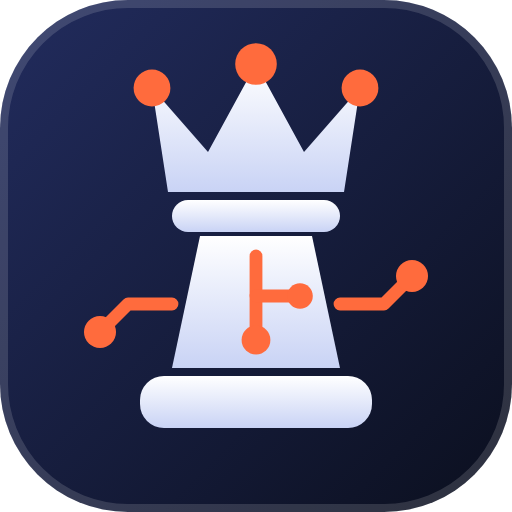
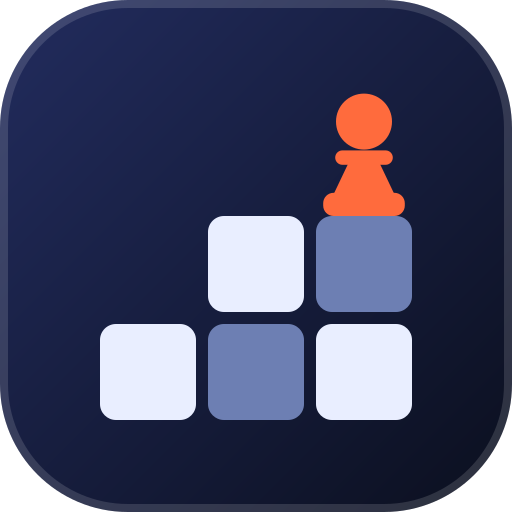
Add files via upload

Changed region(s): [[0.1562, 0.0625, 0.8438, 0.8438]]

diff --git a/backend/app/main.py b/backend/app/main.py
@@ -19,7 +19,7 @@ from .db import sb
 from .engine import analyze_game
 from . import cache, mailer
 from .auth import current_user, tier_from, tier_of
-from .sync import SECONDS_PER_GAME, analyze_initial, analyze_pending, failed_ids, import_history, initial_rows, is_running, job_status, last_error, onboard, run_cron, start_job, run_job, sync_user
+from .sync import _fetch_err, SECONDS_PER_GAME, analyze_initial, analyze_pending, failed_ids, import_history, initial_rows, is_running, job_status, last_error, onboard, run_cron, start_job, run_job, sync_user
 from .promo import attribute_checkout, attribute_renewal, checkout_discount, is_admin, promo_for, router as promo_router
 from .train import router as train_router
 
@@ -163,12 +163,30 @@ def list_games(u=Depends(current_user)):
     return out
 
 
+def _moves_from_pgn(g: dict) -> list:
+    """Mosse dal PGN (senza valutazioni): per le partite scaricate e non ancora analizzate."""
+    import chess, chess.pgn, io as _io
+    out = []
+    try:
+        pg = chess.pgn.read_game(_io.StringIO(g["pgn"]))
+        board, white = pg.board(), (g.get("user_color") == "white")
+        for i, mv in enumerate(pg.mainline_moves()):
+            san = board.san(mv); board.push(mv)
+            out.append({"game_id": g["id"], "ply": i + 1, "san": san, "uci": mv.uci(), "fen_after": board.fen(), "eval_cp": None,
+                        "best_move_san": None, "classification": None, "is_user_move": ((i % 2 == 0) == white) if g.get("user_color") else False})
+    except Exception:
+        return []
+    return out
+
+
 @app.get("/games/{game_id}")
 def get_game(game_id: str, u=Depends(current_user)):
     g = sb.table("games").select("*").eq("id", game_id).eq("user_email", u["email"]).limit(1).execute().data
     if not g:
         raise HTTPException(404, "not_found")
     moves = sb.table("moves").select("*").eq("game_id", game_id).order("ply").execute().data
+    if not moves and g[0].get("pgn"):
+        moves = _moves_from_pgn(g[0])   # partita non ancora analizzata: le mosse si vedono comunque, leggendo il PGN
     errors = sb.table("errori_utenti").select("*").eq("game_id", game_id).eq("user_email", u["email"]).order("ply").execute().data
     prev = 0
     for m in moves:  # perdita di valutazione (centesimi di pedone) di chi ha mosso, 0 se la mossa migliora la posizione
@@ -533,7 +551,7 @@ def sync(bg: BackgroundTasks, n: int = 15, u=Depends(current_user)):
     job = start_job(u["email"], limit, imported)
     if job["ids"]:
         bg.add_task(run_job, u["email"], job["ids"])
-    return {"imported": imported, "job": job["status"]}
+    return {"imported": imported, "job": job["status"], "fetch_error": _fetch_err.get(u["email"])}
 
 
 @app.get("/sync/status")
@@ -557,3 +575,32 @@ def cron_sync(bg: BackgroundTasks, x_cron_secret: str = Header(None)):
         raise HTTPException(403, "forbidden")
     bg.add_task(run_cron)
     return {"started": True}
+
+
+@app.get("/diag")
+def diag(u=Depends(current_user)):
+    """Controlli rapidi per capire perché un'analisi non parte: database, colonne, motore, servizi esterni."""
+    import httpx as _hx
+    from . import engine as E
+    out = []
+    def add(name, ok, detail=""): out.append({"name": name, "ok": bool(ok), "detail": str(detail)[:200]})
+    for col in ("analysis_depth", "highlights", "accuracy_user", "analyzed_at"):
+        try:
+            sb.table("games").select(col).limit(1).execute(); add(f"colonna games.{col}", True)
+        except Exception as e:
+            add(f"colonna games.{col}", False, str(e) + "  -> esegui supabase/012_analysis_depth.sql")
+    try:
+        sb.table("eval_cache").select("fen").limit(1).execute(); add("tabella eval_cache", True)
+    except Exception as e:
+        add("tabella eval_cache", False, str(e) + "  -> esegui supabase/011_eval_cache.sql")
+    add("Stockfish sul server", bool(E.STOCKFISH), E.STOCKFISH or "assente: si usa il servizio online (può rifiutare le richieste)")
+    if E.STOCKFISH:
+        ev, san = E.eval_local("rnbqkbnr/pppppppp/8/8/8/8/PPPPPPPP/RNBQKBNR w KQkq - 0 1"); add("Stockfish risponde", ev is not None, f"{ev} {san}")
+    with _hx.Client(headers={"User-Agent": "EloRise/1.0"}) as c:
+        ce, cs, cd = E.eval_cloud(c, "rnbqkbnr/pppppppp/8/8/4P3/8/PPPP1PPP/RNBQKBNR b KQkq - 0 1"); add("memoria pubblica Lichess", ce is not None, f"{ce} {cs} profondità {cd}")
+        ev, san = E.eval_fen(c, "rnbqkbnr/pppppppp/8/8/4P3/8/PPPP1PPP/RNBQKBNR b KQkq - 0 1"); add("servizio online chess-api.com", ev is not None, E._api_err or f"{ev} {san}")
+        try:
+            r = c.get("https://lichess.org/api/user/lichess", timeout=8.0); add("Lichess raggiungibile", r.status_code == 200, f"HTTP {r.status_code}")
+        except Exception as e:
+            add("Lichess raggiungibile", False, e)
+    return out

diff --git a/backend/app/engine.py b/backend/app/engine.py
@@ -143,6 +143,30 @@ def eval_fen(client: httpx.Client, fen: str):
     return None, None
 
 
+def eval_cloud(client: httpx.Client, fen: str):
+    """Valutazione dalla memoria pubblica di Lichess (gratis, molte posizioni comuni): (pedoni dal Bianco, miglior mossa SAN, profondità) o (None, None, 0)."""
+    global _api_err
+    try:
+        r = client.get("https://lichess.org/api/cloud-eval", params={"fen": fen, "multiPv": 1}, timeout=6.0)
+        if r.status_code != 200:
+            return None, None, 0
+        d = r.json(); pv = (d.get("pvs") or [None])[0]
+        if not pv:
+            return None, None, 0
+        if pv.get("mate") is not None:
+            ev = 100.0 if int(pv["mate"]) > 0 else -100.0
+        elif pv.get("cp") is not None:
+            ev = float(pv["cp"]) / 100.0
+        else:
+            return None, None, 0
+        first = (pv.get("moves") or "").split()
+        san = chess.Board(fen).san(chess.Move.from_uci(first[0])) if first else None
+        return ev, san, int(d.get("depth") or 0)
+    except Exception as e:
+        log.info("cloud-eval: %s", e)
+        return None, None, 0
+
+
 def analyze_game(game: dict) -> None:
     pg = chess.pgn.read_game(io.StringIO(game["pgn"]))
     color = game.get("user_color")
@@ -171,7 +195,11 @@ def analyze_game(game: dict) -> None:
                     dep = LOCAL_DEPTH
                     cache[fen] = eval_local(fen) if STOCKFISH else (None, None)
                     if cache[fen][0] is None:
-                        cache[fen], dep = eval_fen(c, fen), DEPTH      # senza motore locale, o se ha fallito: servizio esterno
+                        ce, cs, cd = eval_cloud(c, fen)                # memoria pubblica di Lichess: gratis e senza limiti stretti
+                        if ce is not None:
+                            cache[fen], dep = (ce, cs), max(cd, 1)
+                        else:
+                            cache[fen], dep = eval_fen(c, fen), DEPTH  # ultimo ripiego: servizio esterno
                     if cache[fen][0] is not None:
                         fresh[k] = (cache[fen][0], cache[fen][1], dep)
             return cache[fen]
@@ -221,9 +249,17 @@ def analyze_game(game: dict) -> None:
     if err_rows:
         sb.table("errori_utenti").upsert(err_rows, on_conflict="user_email,game_id,ply").execute()
     acc = round(max(0.0, 100 - 40 * (sum(losses) / len(losses))), 1) if losses else None
-    upd = {"analyzed_at": now, "analysis_depth": NOW_DEPTH, "accuracy_user": acc}
-    try:  # momenti salienti (rimonta, mosse brillanti); se la colonna non esiste ancora, l'analisi si salva comunque
-        sb.table("games").update({**upd, "highlights": highlights_from_moves(move_rows, color)}).eq("id", game["id"]).execute()
-    except Exception:
-        sb.table("games").update(upd).eq("id", game["id"]).execute()
+    base = {"analyzed_at": now, "accuracy_user": acc}
+    hl = highlights_from_moves(move_rows, color)
+    last = None
+    # colonne facoltative (profondità, momenti salienti): se mancano nel database l'analisi si salva comunque, senza di esse
+    for extra in ({"analysis_depth": NOW_DEPTH, "highlights": hl}, {"highlights": hl}, {"analysis_depth": NOW_DEPTH}, {}):
+        try:
+            sb.table("games").update({**base, **extra}).eq("id", game["id"]).execute()
+            last = None
+            break
+        except Exception as e:
+            last = e
+    if last:
+        raise last
     log.info("analizzata %s: %d errori; posizioni %d, dalla memoria %d, dal motore %d", game["id"], len(err_rows), len(set(keys)), len(set(keys) & set(shared)), len(fresh))

diff --git a/backend/app/sync.py b/backend/app/sync.py
@@ -17,11 +17,16 @@ log = logging.getLogger("sync")
 UA = {"User-Agent": "EloRise/1.0 (support@elorise.app)"}
 
 
+_fetch_err: dict = {}     # email -> ultimo errore di download
+
+
 def fetch_lichess(username: str, n: int) -> list[str]:
     r = httpx.get(f"https://lichess.org/api/games/user/{username.lower()}", params={"max": n, "opening": "true", "clocks": "true"},
                   headers={**UA, "Accept": "application/x-chess-pgn"}, timeout=25.0 if n <= 100 else 180.0)
-    if r.status_code != 200:
+    if r.status_code == 404:
         return []
+    if r.status_code != 200:
+        raise RuntimeError(f"Lichess ha risposto {r.status_code}")
     out, buf = [], io.StringIO(r.text)
     while (g := chess.pgn.read_game(buf)):
         out.append(str(g))
@@ -75,6 +80,7 @@ def _sync_profile(email: str, p: dict, n: int) -> int:
         pgns = fetch_lichess(p["username"], n) if src == "lichess" else fetch_chesscom(p["username"], n)
     except Exception as e:
         log.warning("fetch %s/%s: %s", src, p["username"], e)
+        _fetch_err[email] = f"{src}: {e}"
         sb.table("profili_scacchi").update({"last_sync_at": datetime.datetime.now(datetime.timezone.utc).isoformat()}).eq("id", p["id"]).execute()
         return 0
     rows = [r for r in (to_row(email, src, x, p["username"]) for x in pgns) if r]
@@ -96,6 +102,7 @@ def _sync_profile(email: str, p: dict, n: int) -> int:
 
 
 def sync_user(email: str, n: int = 15) -> int:
+    _fetch_err.pop(email, None)
     imported = 0
     for p in sb.table("profili_scacchi").select("*").eq("user_email", email).execute().data:
         if p["piattaforma"] in ("lichess", "chesscom"):

diff --git a/README.md b/README.md
@@ -1,4 +1,4 @@
-# Chess Coach Pro
+# EloRise
 - `backend/`  FastAPI (Render/Railway). Root directory: `backend`. Start: `uvicorn app.main:app --host 0.0.0.0 --port $PORT`
 - `frontend/` Next.js (Vercel). Root directory: `frontend`
 - `supabase/` migrazioni SQL da eseguire in ordine nel SQL Editor (001, poi 002)
@@ -85,7 +85,7 @@ Le carte vengono assegnate dal backend subito dopo l'analisi di una partita. L'a
 
 ## Email (verifica, benvenuto, grazie abbonamento)
 1. **Resend** (resend.com, piano gratuito 3.000 mail/mese): aggiungi il tuo dominio, inserisci i record DNS che ti mostra, crea una API key.
-2. **Render**: `RESEND_API_KEY`, `MAIL_FROM` (es. `Chess Coach <ciao@tuodominio.it>`), `EMAIL_VIDEO_URL` (link YouTube del video, anche "non in elenco"). Opzionale `EMAIL_VIDEO_THUMB` per un'immagine di anteprima tua.
+2. **Render**: `RESEND_API_KEY`, `MAIL_FROM` (es. `EloRise <ciao@tuodominio.it>`), `EMAIL_VIDEO_URL` (link YouTube del video, anche "non in elenco"). Opzionale `EMAIL_VIDEO_THUMB` per un'immagine di anteprima tua.
 3. **Supabase SQL**: esegui `supabase/010_email_log.sql`.
 4. **Verifica account**: Supabase > Authentication > Providers > Email: attiva "Confirm email". Authentication > Emails > SMTP Settings: host `smtp.resend.com`, porta 465, utente `resend`, password = la API key, mittente = `MAIL_FROM`. Poi Templates > "Confirm signup": incolla `supabase/email-templates/confirm-signup.html`.
 5. **Benvenuto con piani e video**: parte da sola, una volta, al primo accesso dopo l'attivazione (anche per chi entra con Google). **Grazie per l'abbonamento**: parte dal webhook Stripe a ogni nuovo abbonamento.
@@ -156,7 +156,7 @@ Le analisi fatte sul server (primo caricamento di un utente) restano a profondit
 
 ## v3.7 – Nuovo nome: EloRise
 - Il nome è in un solo posto: `frontend/src/lib/brand.ts` (`BRAND`, `SUPPORT`). Il logo scrive "Elo" in bianco e "Rise" in arancio (`Wordmark` in `Logo.tsx`).
-- Sostituito "Chess Coach" in app, PWA (manifest, offline), email (`mailer.py`), titolo API, User-Agent, template Supabase, nomi file e hashtag di condivisione.
+- Sostituito "EloRise" in app, PWA (manifest, offline), email (`mailer.py`), titolo API, User-Agent, template Supabase, nomi file e hashtag di condivisione.
 - Da fare a mano: acquistare `elorise.app`, impostare `FRONTEND_URL`, `MAIL_FROM` ("EloRise <noreply@elorise.app>") e `MAIL_REPLY_TO` (Vercel/Render), verificare il dominio su Resend, creare la casella `support@elorise.app` (compare nello User-Agent verso Lichess/Chess.com) e rinominare il template email su Supabase (Auth > Email Templates, incolla `supabase/email-templates/confirm-signup.html`).
 - Stripe: i prodotti già creati si rinominano dalla dashboard (lo script cambia solo i nuovi).
 - Home: scacchiera giocabile (`PlayBoard.tsx`, testi in `lib/play-copy.ts`). Il Coach commenta ogni mossa del Bianco; il Nero risponde con una euristica semplice. Il punteggio mostrato è dimostrativo.
@@ -173,3 +173,20 @@ Le analisi fatte sul server (primo caricamento di un utente) restano a profondit
 - **Analisi delle partite appena caricate:** la causa più probabile è il servizio online di analisi che rifiuta le richieste dal server (limiti). Il messaggio d'errore ora lo dice. Soluzione: Stockfish sul server.
   - Render Python: Build Command `pip install -r requirements.txt && bash scripts/get_stockfish.sh`, variabili `LOCAL_DEPTH=12`, `LOCAL_TIME=0.8`, `LOCAL_HASH=32` (il percorso `backend/bin/stockfish` si trova da solo).
   - In alternativa: `backend/Dockerfile` (Render > Web Service > Docker, Root Directory `backend`), Stockfish incluso.
+
+## v3.10 — menu nuovo, home, installazione, diagnostica
+
+**Cosa cambia**
+- Menu a 5 voci: Home · Analisi (Partite + Aperture) · **Gioca** (pulsante centrale in evidenza) · Allenati · Premi.
+- Home: "Missione di oggi" in 3 passi (gioca, ripassa gli errori, studia una lezione) con serie di giorni.
+- Scacchiera della home più piccola, 3 partite commentate in rotazione (Opera di Parigi, matto di Légal, matto del barbiere), emoji di reazione sulla casa di arrivo, badge "!!" ingrandito.
+- Logo allineato alle voci del menu.
+- Installazione: voce "Installa l'app" nel menu, banner che ritorna dopo 3 giorni, avviso "Nuova versione pronta" con pulsante Aggiorna (service worker v2).
+- Pagina **/dashboard/diag** (menu → Stato analisi): controlla colonne, motore, servizi.
+- Dopo la sincronizzazione compare l'errore di download, se c'è.
+
+**Da fare tu**
+1. Supabase → SQL Editor: esegui `supabase/012_analysis_depth.sql` (e 011 se non l'hai fatto). È la causa più probabile delle analisi ferme.
+2. Rilancia backend e frontend. Su Render imposta Build Command `pip install -r requirements.txt && bash scripts/get_stockfish.sh` e variabili `LOCAL_DEPTH=12 LOCAL_TIME=0.8 LOCAL_HASH=32`.
+3. Apri Menu → Stato analisi e controlla che tutte le righe siano verdi.
+4. Icona nuova: chi ha già installato l'app deve disinstallarla e reinstallarla.
